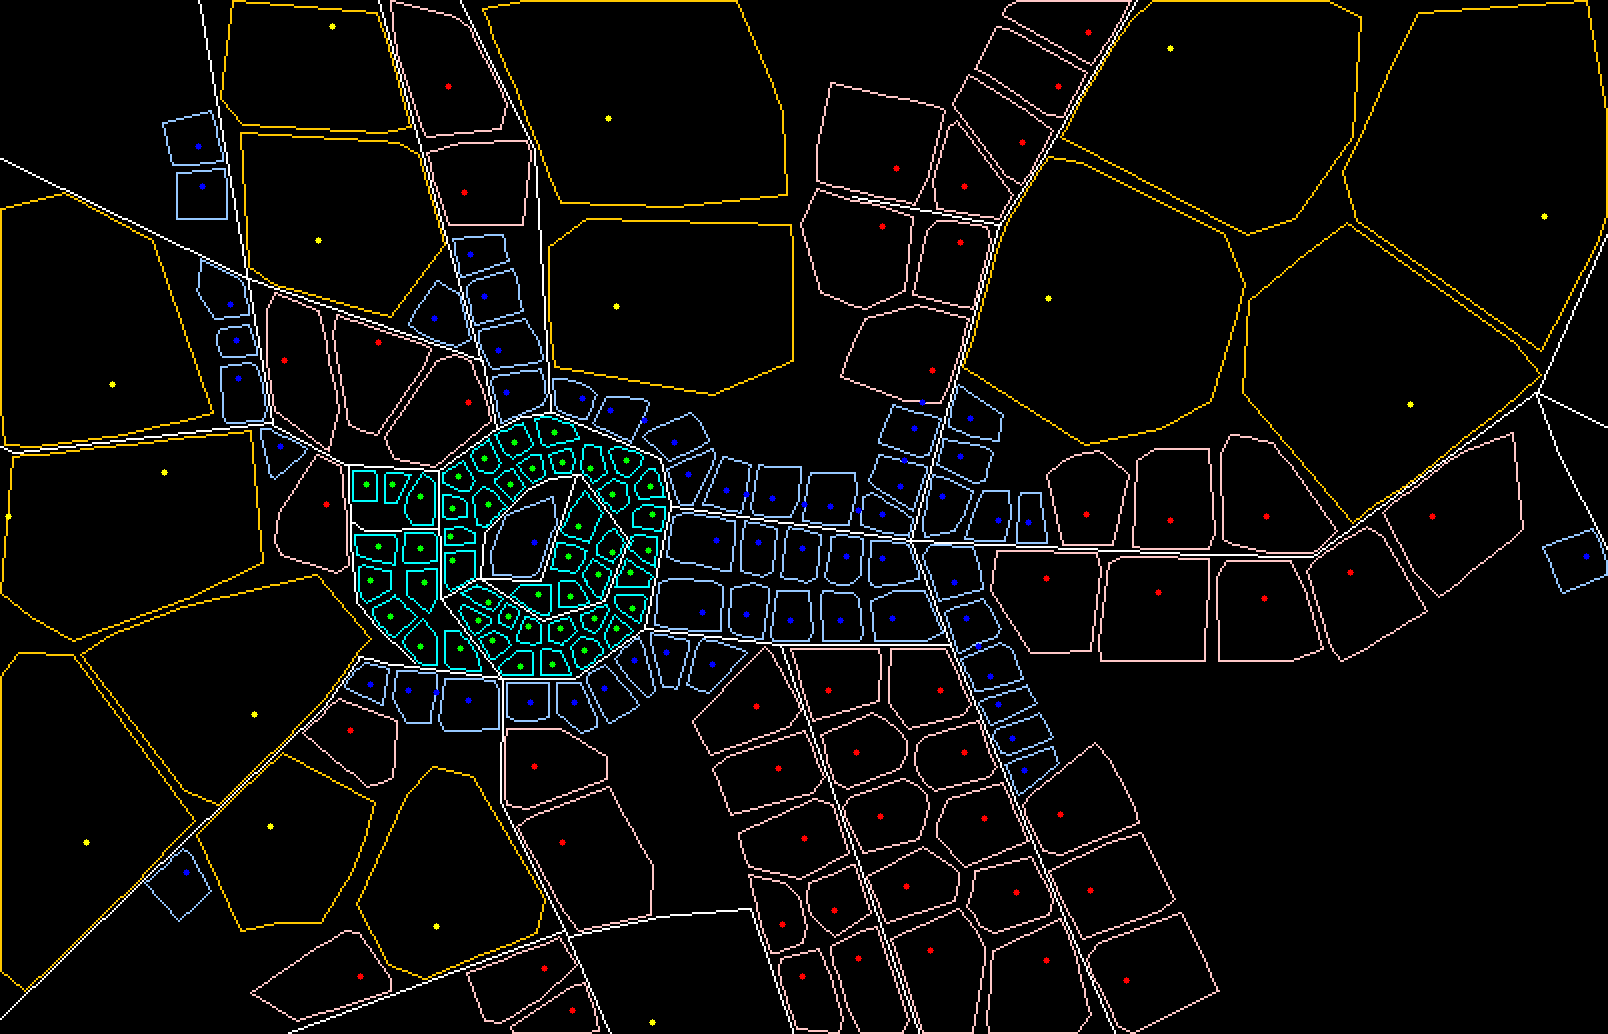
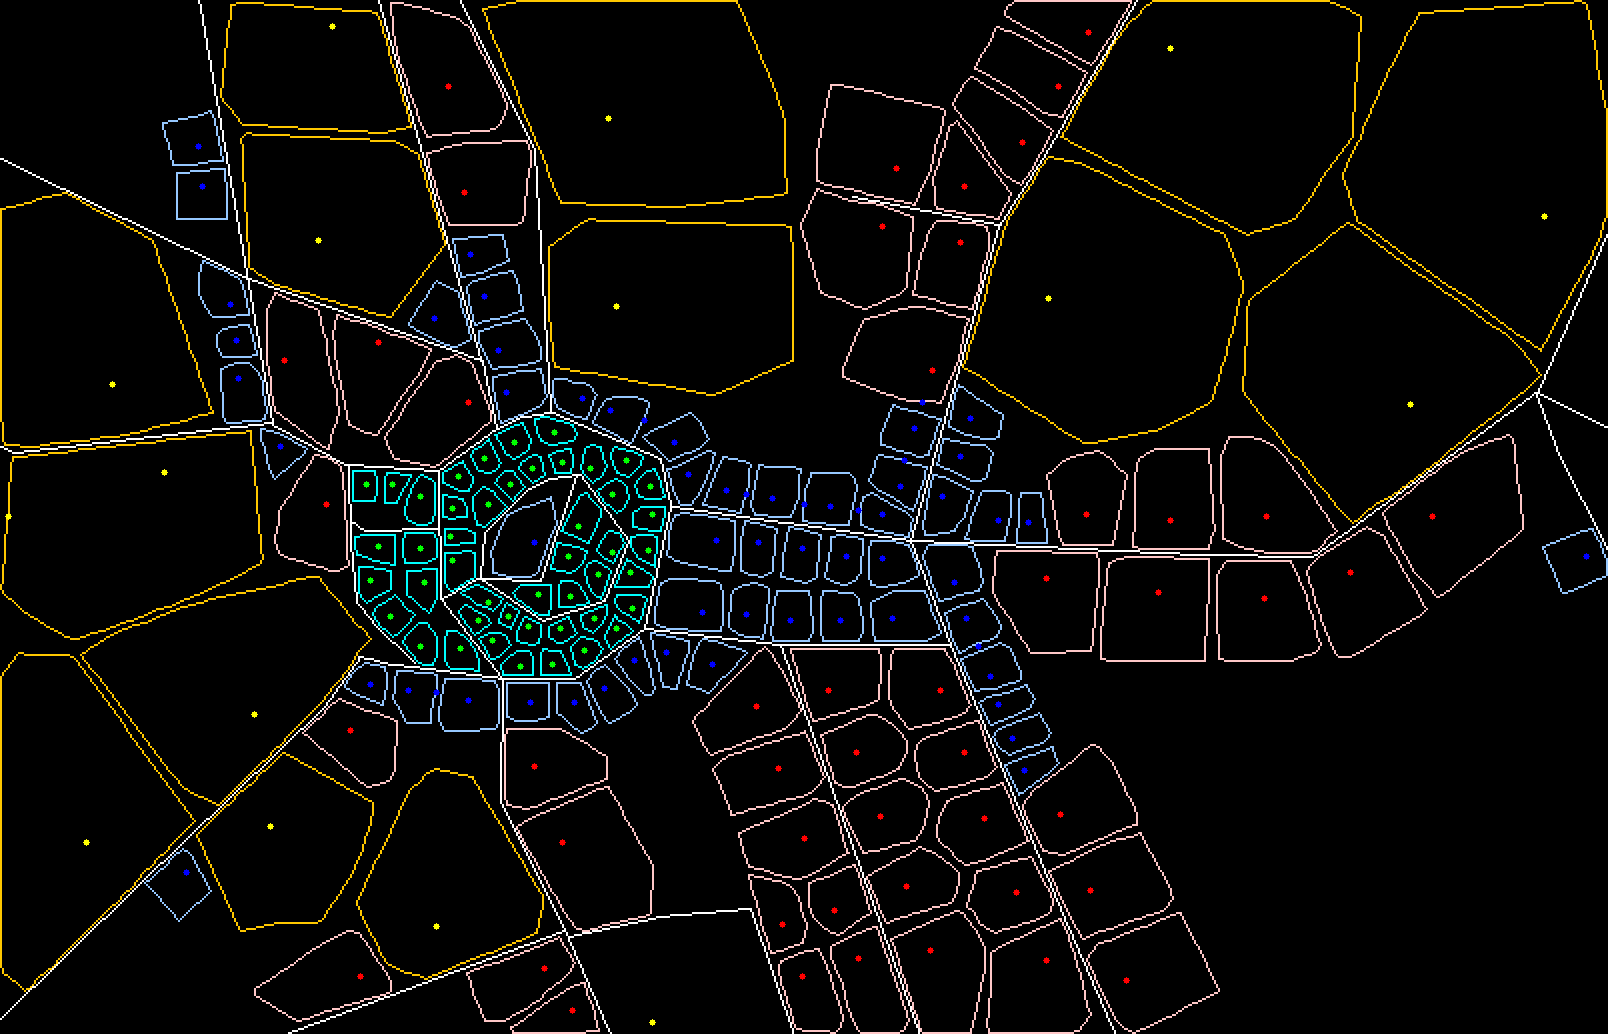
0830 resample

diff --git a/parcel_geomotry.py b/parcel_geomotry.py
@@ -228,22 +228,65 @@ class FBuilding:
         return True
 
     def DrawLine(self, img, zoom, color, width):
-        if len(self.Borders) == 0:
+        Size = len(self.Borders)
+        if Size == 0:
             return
-        for Start, End in self.Borders:
-            cv2.line(img, (int(Start[0] * zoom + zoom * 0.5), int(Start[1] * zoom + zoom * 0.5)),
-                     (int(End[0] * zoom + zoom * 0.5), int(End[1] * zoom + zoom * 0.5)), color, width)
+        for i in range(0, Size, 2):
+            cv2.line(img, (int(self.Borders[i][0] * zoom + zoom * 0.5), int(self.Borders[i][1] * zoom + zoom * 0.5)),
+                     (int(self.Borders[i + 1][0] * zoom + zoom * 0.5), int(self.Borders[i + 1][1] * zoom + zoom * 0.5)),
+                     color, width)
+
+    def Resample(self, Segments, StepLength):
+        TotalLength = 0
+        Size = len(Segments)
+        if Size == 0:
+            return []
+        Lengths = [0.0] * (Size // 2)
+        for i in range(0, Size, 2):
+            Length = Distance(Segments[i], Segments[i + 1])
+            TotalLength += Length
+            Lengths[i // 2] = Length
+
+        StepLength = TotalLength / max(round(TotalLength / StepLength), 1)
+        CurrentLength = 0
+        CurrentIndex = 0
+        NextStart = StartPos = Segments[0]
+        ResampledSegments = []
+        while True:
+            Length = Lengths[CurrentIndex // 2]
+            if CurrentLength + Length < StepLength - 0.001:
+                CurrentLength += Length
+                CurrentIndex += 2
+                if CurrentIndex >= Size:
+                    break
+                NextStart = Segments[CurrentIndex]
+            else:
+                Rate = (StepLength - CurrentLength) / Length
+                EndPos = Lerp(NextStart, Segments[CurrentIndex + 1], 1 - Rate)
+                ResampledSegments.append(StartPos)
+                ResampledSegments.append(EndPos)
+                Lengths[CurrentIndex // 2] = Length * (1 - Rate)
+                CurrentLength = 0
+                NextStart = StartPos = EndPos
+
+        return ResampledSegments
 
     def Generate(self):
         self.Init()
-        RoadLeft, RoadRight = self.RoadConquest()
+        LeftRoad, RightRoad = self.RoadConquest()
         LeftSide, RightSide, TopSide = self.RegionConquest()
         self.End()
-        self.Borders.extend(RoadLeft)
-        self.Borders.extend(RoadRight)
-        self.Borders.extend(LeftSide)
-        self.Borders.extend(RightSide)
-        self.Borders.extend(TopSide)
+
+        # self.Borders.extend(LeftRoad)
+        # self.Borders.extend(RightRoad)
+        # self.Borders.extend(LeftSide)
+        # self.Borders.extend(RightSide)
+        # self.Borders.extend(TopSide)
+        self.Borders.extend(self.Resample(LeftRoad, 5))
+        self.Borders.extend(self.Resample(RightRoad, 5))
+        self.Borders.extend(self.Resample(LeftSide, 5))
+        self.Borders.extend(self.Resample(RightSide, 5))
+        self.Borders.extend(self.Resample(TopSide, 5))
 
     def Init(self):
         for Neighbor in self.__Neighbors.values():
@@ -266,6 +309,7 @@ class FBuilding:
         global Landmarks
         for Node in self.__VirtualBorderNodes:
             Landmarks[Node[0], Node[1]] = 0
+        self.__VirtualBorderNodes.clear()
 
     def RoadConquest(self):
         global del_num
@@ -321,7 +365,8 @@ class FBuilding:
                 if LoopTime > StepLength:
                     return i, RootPos, Borders
                 EndPos = [EndPos[0] + self.__Direction[0], EndPos[1] + self.__Direction[1]]
-            Borders.append([RootPos, EndPos])
+            Borders.append(RootPos)
+            Borders.append(EndPos)
             RootPos = EndPos
         return StepNum, RootPos, Borders
 
@@ -356,20 +401,25 @@ class FBuilding:
             MaxDistance = Length * np.sin(np.radians(MaxAngle))
             RoadNodes = GetNodesInRadius(TopPos, MaxDistance, [1, 5])
             if len(RoadNodes) == 0:
-                Borders.append([RootPos, TopPos])
+                Borders.append(RootPos)
+                Borders.append(TopPos)
                 return TopPos, Borders
             Found, MiddlePos = self.RegionConquestFindMiddlePos(RootPos, TopPos, Normal, MaxAngle)
         if Found:
-            Borders.append([MiddlePos, TopPos])
+            Borders.append(TopPos)
+            Borders.append(MiddlePos)
 
         EndPos = MiddlePos if Found else TopPos
         Found, InterPos = self.RegionConquestFindInterPos(RootPos, EndPos, Normal, self.Width / 2, 6)
 
         if Found:
-            Borders.append([RootPos, InterPos])
-            Borders.append([InterPos, EndPos])
+            Borders.append(EndPos)
+            Borders.append(InterPos)
+            Borders.append(InterPos)
+            Borders.append(RootPos)
         else:
-            Borders.append([RootPos, EndPos])
+            Borders.append(EndPos)
+            Borders.append(RootPos)
         return TopPos, Borders
 
     def RegionConquestOnTop(self, Pos1, Pos2, MiddlePos, StepNum):
@@ -394,7 +444,8 @@ class FBuilding:
                 if self.CheckLine(LastPos, Pos) or LoopTime > self.Length:
                     break
                 Pos = [Pos[0] - self.__Direction[0], Pos[1] - self.__Direction[1]]
-            Borders.append([LastPos, Pos])
+            Borders.append(LastPos)
+            Borders.append(Pos)
             LastPos = Pos
         return Borders
 
@@ -428,7 +479,7 @@ class FBuilding:
         MaxValue = 0
         MaxIndex = -1
         for i in range(len(Points)):
-            if Points[i][1] > MaxValue:
+            if Points[i][1] >= MaxValue:
                 MaxValue = Points[i][1]
                 MaxIndex = i
         if MaxIndex == len(Points) - 1:
@@ -535,6 +586,7 @@ if __name__ == '__main__':
         Buildings[index].Generate()
     end = time.time()
     print('generate time: ', end - start, 's')
+    total_time += end - start
 
     start = time.time()
     Num = 0
@@ -544,11 +596,11 @@ if __name__ == '__main__':
             Buildings[index].Borders.clear()
             Buildings[index].Generate()
             Buildings[index].Redo = False
-    total_time += end - start
     end = time.time()
     print('rejected num: ', del_num)
     print('regenerate num: ', Num)
     print('regenerate time: ', end - start, 's')
+    total_time += end - start
 
     start = time.time()
     for index in indices:
